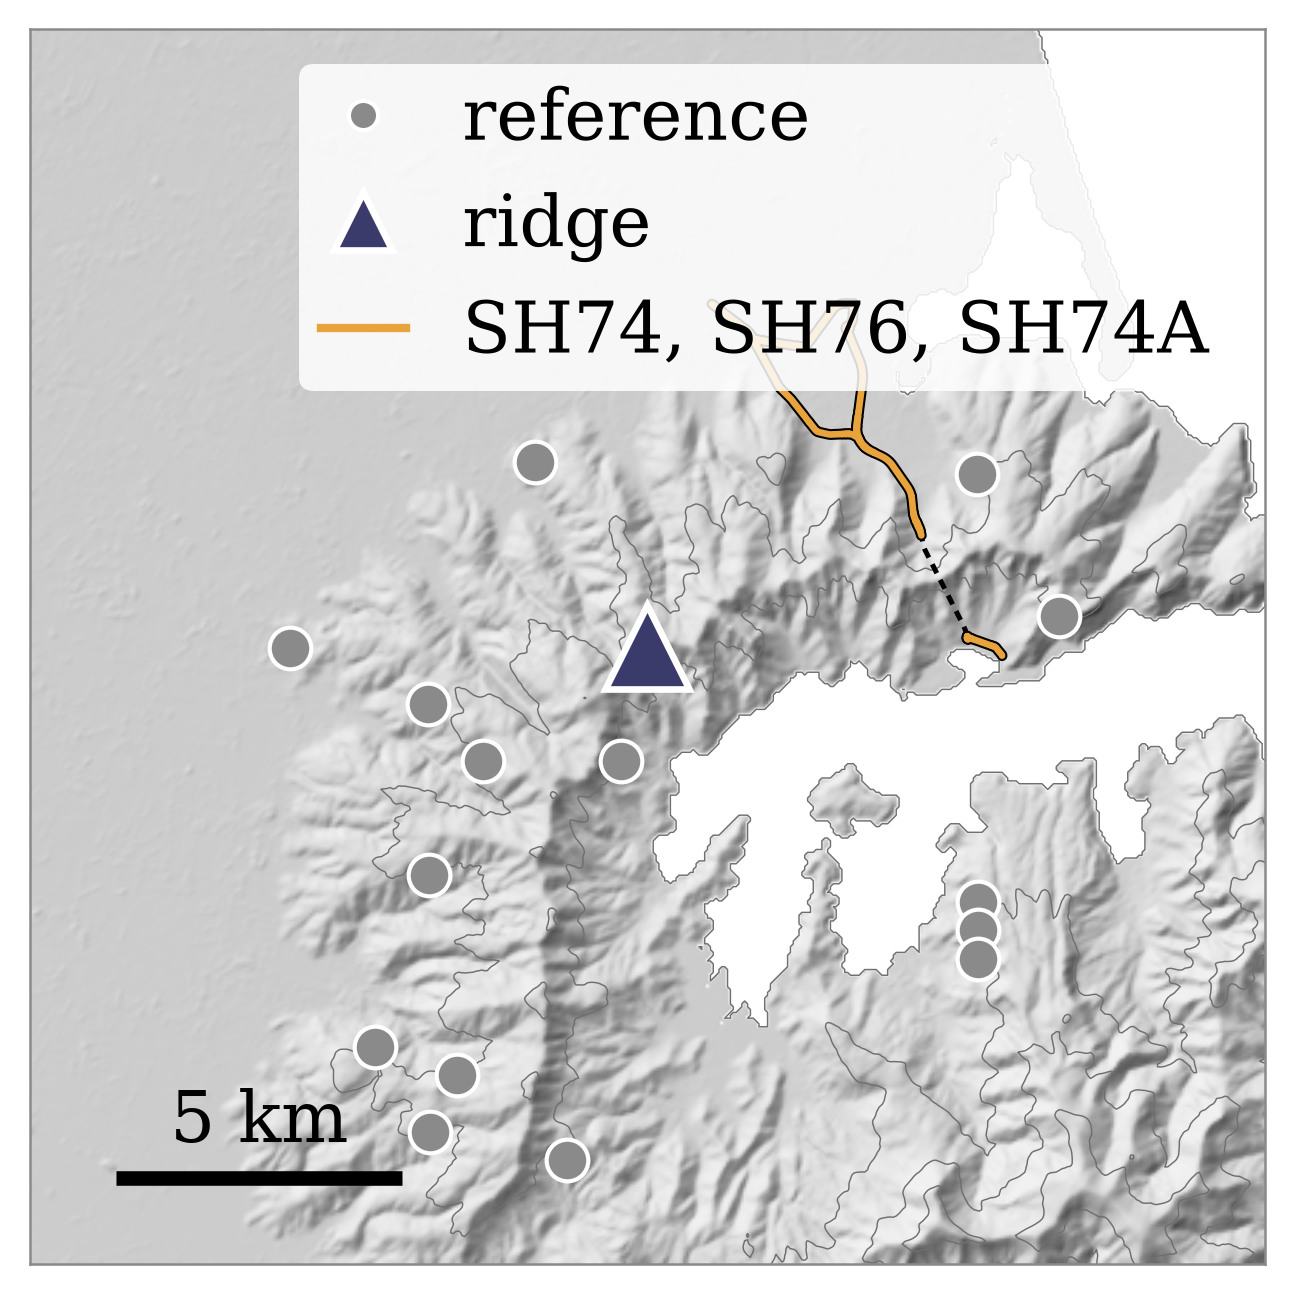
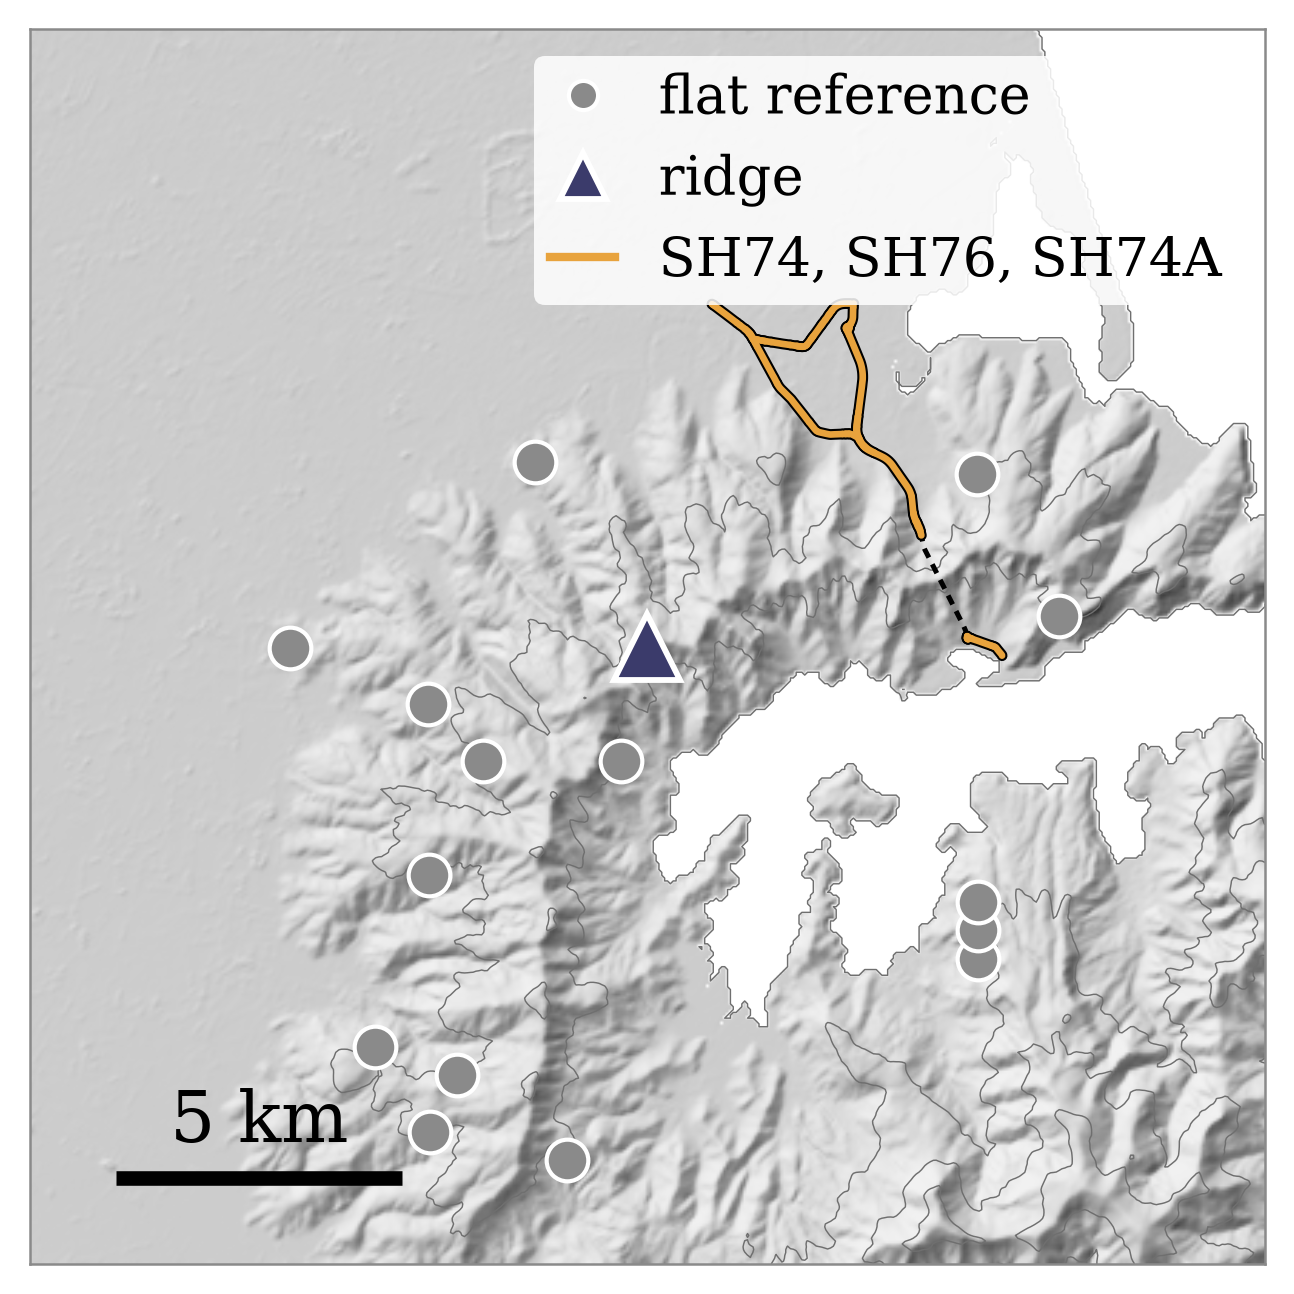
Score the Otira ridge and viaduct against flat references
The viaduct site is flat at 1.25 km but sits in a 173 m depression at 5 km,
so ridge/viaduct (2.8x at 2 s) multiplied ridge amplification by the valley's
de-amplification. Both sites are now scored against stations flat at the
1.25, 2.5 and 5 km scales: the ridge is 1.5-2.2x across 1-3 s and the viaduct
about 0.5x at 2 s but 1.5x at 1 s.

The notes now scope the landslide argument to large, deep-seated failures,
since rockfall is a short-period problem the run does not resolve, quote the
ridge and viaduct elevations instead of H_1250, and say the absolute shaking
is small. Both ratio plots use a log axis labelled against flat references.

Changed region(s): [[0.2164, 0.0309, 0.9583, 0.3091], [0.4637, 0.4637, 0.5255, 0.5564], [0.7419, 0.6801, 0.7728, 0.7419]]

diff --git a/cybershake-nshm/scripts/plot_marlborough_topo.py b/cybershake-nshm/scripts/plot_marlborough_topo.py
@@ -6,30 +6,36 @@
 
 The paired-site experiment from the topographic-effects paper
 (~/papers/moderate_crustal_topographic_effects, scripts/fig_paired_sites.py):
-take the ratio of pSA (RotD50) at a ridge site to that at a nearby reference
-site, as a field study would, and read it as topographic amplification. The
-Otira pair is the paper's own, chosen there from the dense array with: outside
-the supergrid, <= 5 km apart, |dVs30| <= 150 m/s, reference |H_1250| <= 10 m,
-ridge H_1250 >= 40 m. Both sites exist in this run and neither sits in the
-supergrid, so nothing is reselected.
+take the ratio of pSA (RotD50) at a ridge site to that at nearby reference
+sites, as a field study would, and read it as topographic amplification.
 
-Sugarloaf has no single reference. Its target is the run station nearest the
-Kordia tower on the Port Hills summit, and its references are every station
-that is flat at three scales (|H_1250| <= 10 m, |H_2500| <= 20 m,
-|H_5000| <= 30 m), within 10 km, outside the supergrid and within 200 m/s in
-Vs30. A reference flat at 1250 m alone can sit in a valley or on the massif at
-the 2.5-5 km scale that 2-5 s waves see; the Vs30 window is what keeps the
-Christchurch basin out. The ratio is drawn as the geometric mean over the
-references, with their 16th-84th percentile as a band. A single-event
-flat-site-against-flat-site version of the same ratio spreads 0.74-1.29
-(P10-P90) at 2 s, so one pair inside that range says nothing.
+The references are every station that is flat at three scales
+(|H_1250| <= 10 m, |H_2500| <= 20 m, |H_5000| <= 30 m), outside the supergrid,
+within a radius and a Vs30 window of the target. A reference flat at 1250 m
+alone can sit in a valley or on a massif at the 2.5-5 km scale that 2-5 s
+waves see. The paper's Otira reference, fKtnOWL at the viaduct, is that case:
+H_1250 is about 1 m but H_5000 is -173 m, so ridge/viaduct (2.8 at 2 s)
+multiplies ridge amplification by the valley's de-amplification. Here the
+Otira ridge (the paper's fKtoMWL) and the viaduct are each scored against flat
+references instead, so the two curves are the topographic effect on the slopes
+above the road and at the structure. Only one station qualifies within 8 km of
+Otira, so its radius is 12 km, which gives three.
+
+Sugarloaf's target is the run station nearest the Kordia tower on the Port
+Hills summit, with references within 10 km and 200 m/s; the Vs30 window is
+what keeps the Christchurch basin out.
+
+Ratios are the geometric mean over the references, with their 16th-84th
+percentile as a band. A single-event flat-site-against-flat-site version of the
+same ratio spreads 0.74-1.29 (P10-P90) at 2 s, so one pair inside that range
+says nothing.
 
 What this figure CANNOT show, and the slide has to say: this event was run with
 explicit topography only. There is no squashed (NT) companion, so the paper's
 check -- the same ratio without topography, which measures how far the pair
 departs from "similar site conditions" -- is absent. Everything here is T.
 
-One event, so one curve per pair: no median, no interquartile band. The arm is
+One event, so the band is spread across references, not across events. The arm is
 `prefilter` (SW4 source prefilter on, the 26.7.1Hz defaults). The run is
 deterministic to ~1 Hz (bb flo = 1 Hz, SW4 prefilter corner 1.12 Hz), so only
 periods of 1 s and longer are drawn.
@@ -55,8 +61,6 @@ PAPER = Path("/home/jake/papers/moderate_crustal_topographic_effects")
 DEM50 = Path("/var/tmp/copernicus/nz_dem_50m.tif")  # Copernicus GLO-30 at 50 m, NZTM
 HIGHWAYS = PAPER / "data" / "raw" / "osm_state_highways" / "overpass.json"
 
-# (label, file slug, ridge, reference). The reference is a station name, or a
-# NeutralRefs rule that selects every qualifying station.
 D_HILL = 1250.0  # m, diameter of the H_d averaging disk (Tiwari et al. Hill model)
 
 
@@ -67,9 +71,11 @@ class NeutralRefs:
     max_h: tuple = ((1250.0, 10.0), (2500.0, 20.0), (5000.0, 30.0))  # (D, |H_D| limit), m
 
 
+# (label, file slug, ridge, reference rule, structure). The structure, where
+# there is one, is scored against its own flat references under the same rule.
 PAIRS = [
-    ("Otira Viaduct", "otira", "fKtoMWL", "fKtnOWL"),
-    ("Sugarloaf, Port Hills", "sugarloaf", "dwd0ICA", NeutralRefs(radius=10_000.0, dvs30=200.0)),
+    ("Otira Viaduct", "otira", "fKtoMWL", NeutralRefs(radius=12_000.0, dvs30=150.0), "fKtnOWL"),
+    ("Sugarloaf, Port Hills", "sugarloaf", "dwd0ICA", NeutralRefs(radius=10_000.0, dvs30=200.0), None),
 ]
 F_DET = 1.0  # Hz, LF/HF merge; shorter periods are the stochastic HF's, not drawn
 
@@ -177,7 +183,7 @@ def hillshade(ax, x0, x1, y0, y1) -> None:
                levels=np.arange(0, 4000, 250), colors="#6f6f6f", linewidths=0.35)
 
 
-def highways(ax) -> None:
+def highways(ax, loc: str = "upper right") -> None:
     """OSM state highways (paper extract); tunnels and shelters dashed."""
     if not HIGHWAYS.exists():
         print(f"no {HIGHWAYS}; skipping highways")
@@ -196,7 +202,7 @@ def highways(ax) -> None:
             refs.update(r.replace(" ", "") for r in w["tags"]["ref"].split(";") if r.startswith("SH"))
     if refs:
         ax.plot([], [], color=ROAD_COLOUR, lw=2, label=", ".join(sorted(refs, key=lambda r: (len(r), r))))
-        ax.legend(loc="upper right", fontsize=17, handlelength=1.2, markerscale=0.7, frameon=True, framealpha=0.85,
+        ax.legend(loc=loc, fontsize=13, handlelength=1.2, markerscale=0.7, frameon=True, framealpha=0.85,
                   borderpad=0.3, edgecolor="none")
 
 
@@ -221,59 +227,60 @@ def main() -> None:
     args = ap.parse_args()
 
     im_path = args.data / args.arm / "intensity_measures.h5"
-    refs = {slug: select_references(im_path, ridge, ref) if isinstance(ref, NeutralRefs) else [ref]
-            for _, slug, ridge, ref in PAIRS}
-    sites = sorted({s for _, slug, ridge, _ in PAIRS for s in (ridge, *refs[slug])})
+    targets = {(slug, t): rule for _, slug, ridge, rule, struct in PAIRS for t in (ridge, struct) if t}
+    refs = {k: select_references(im_path, k[1], rule) for k, rule in targets.items()}
+    for k, names in refs.items():
+        assert names, f"{k}: no reference satisfies the rule"
+    sites = sorted({s for (_, t), names in refs.items() for s in (t, *names)})
     ims = load_psa(im_path, sites)
     period = ims["period"]
     keep = (period >= 1 / F_DET) & (period <= 10)
     args.out_dir.mkdir(parents=True, exist_ok=True)
+    for name in sites:
+        s = ims[name]
+        assert s["supergrid_depth_gp"] == 0, f"{name} inside the supergrid"
+        s["x"], s["y"] = to_nztm(s["longitude"], s["latitude"])
+        s["h"], s["z"] = relative_elevation(s["x"], s["y"])
 
-    # The slide lays each pair out as photo + map over a wide ratio plot, so
-    # every panel is its own PNG and Typst does the composition. The ratio
-    # plots share a y range so the two pairs read against each other.
-    # ratios[slug] = (geometric mean, P16, P84) over the references; for a
-    # single reference all three are the one ratio.
+    # ratios[(slug, target)] = (geometric mean, P16, P84) over the references.
     ratios = {}
-    for label, slug, ridge, _ in PAIRS:
-        r, qs = ims[ridge], [ims[q] for q in refs[slug]]
-        assert qs, f"{label}: no reference satisfies the rule"
-        for s in (r, *qs):
-            assert s["supergrid_depth_gp"] == 0, "pair site inside the supergrid"
-            s["x"], s["y"] = to_nztm(s["longitude"], s["latitude"])
-            s["h"], s["z"] = relative_elevation(s["x"], s["y"])
+    for (slug, t), names in refs.items():
+        r, qs = ims[t], [ims[q] for q in names]
         dist = np.array([np.hypot(r["x"] - q["x"], r["y"] - q["y"]) for q in qs])
         ln = np.log(r["psa"]) - np.log([q["psa"] for q in qs])
-        ratios[slug] = tuple(np.exp(v) for v in (ln.mean(0), *np.percentile(ln, [16, 84], axis=0)))
-        print(f"{label}: ridge {ridge} ({r['latitude']:.4f}, {r['longitude']:.4f}) "
+        ratios[slug, t] = tuple(np.exp(v) for v in (ln.mean(0), *np.percentile(ln, [16, 84], axis=0)))
+        print(f"{slug}: {t} ({r['latitude']:.4f}, {r['longitude']:.4f}) "
               f"H1250 {r['h']:.1f} m, z {r['z']:.0f} m, Vs30 {r['vs30']:.0f}; Rrup {r['rrup']:.0f} km; "
               f"{len(qs)} reference(s), {dist.min() / 1e3:.2f}-{dist.max() / 1e3:.2f} km away")
-        for name, q in zip(refs[slug], qs):
+        for name, q in zip(names, qs):
             print(f"    ref {name} ({q['latitude']:.4f}, {q['longitude']:.4f}) H1250 {q['h']:.1f} m, "
                   f"z {q['z']:.0f} m, Vs30 {q['vs30']:.0f}")
-        for t in (1, 2, 3, 5, 7.5, 10):
-            k = int(np.argmin(np.abs(period - t)))
-            gm, lo, hi = (a[k] for a in ratios[slug])
-            print(f"    T = {period[k]:g} s: ridge/ref {gm:.3f} (P16-P84 {lo:.3f}-{hi:.3f})")
+        for T in (1, 2, 3, 5, 7.5, 10):
+            k = int(np.argmin(np.abs(period - T)))
+            gm, lo, hi = (a[k] for a in ratios[slug, t])
+            print(f"    T = {period[k]:g} s: {gm:.3f} (P16-P84 {lo:.3f}-{hi:.3f})")
 
-        # Map: centred on the pair, or on the target when the references
-        # surround it.
+    # The slide lays each pair out as photo + map over a wide ratio plot, so
+    # every panel is its own PNG and Typst does the composition.
+    for label, slug, ridge, _, struct in PAIRS:
+        r = ims[ridge]
+        qs = [ims[q] for q in sorted({q for (sl, _), names in refs.items() if sl == slug for q in names})]
+        # Map: centred on the target, wide enough for every reference.
         fig, axm = plt.subplots(figsize=(4.2, 4.2), constrained_layout=True)
-        if len(qs) == 1:
-            cx, cy = (r["x"] + qs[0]["x"]) / 2, (r["y"] + qs[0]["y"]) / 2
-            half = max(3500.0, 0.5 * dist[0] + 2500)
-        else:
-            cx, cy = r["x"], r["y"]
-            half = dist.max() + 1500
+        cx, cy = r["x"], r["y"]
+        half = max(np.hypot(q["x"] - cx, q["y"] - cy) for q in qs) + 1500
         hillshade(axm, cx - half, cx + half, cy - half, cy + half)
-        axm.plot([q["x"] for q in qs], [q["y"] for q in qs], "o", ms=17 if len(qs) == 1 else 10,
-                 mfc=REF_COLOUR, mec="white", mew=1.6 if len(qs) == 1 else 1.0, zorder=6, label="reference")
-        axm.plot(r["x"], r["y"], "^", ms=20, mfc=RIDGE_COLOUR, mec="white", mew=1.6, zorder=7,
-                 label="ridge")
+        axm.plot([q["x"] for q in qs], [q["y"] for q in qs], "o", ms=10, mfc=REF_COLOUR, mec="white", mew=1.0,
+                 zorder=6, label="flat reference")
+        axm.plot(r["x"], r["y"], "^", ms=16, mfc=RIDGE_COLOUR, mec="white", mew=1.4, zorder=7, label="ridge")
+        if struct:
+            v = ims[struct]
+            axm.plot(v["x"], v["y"], "s", ms=11, mfc=ROAD_COLOUR, mec="black", mew=1.2, zorder=7, label="viaduct")
         axm.set_xlim(cx - half, cx + half)
         axm.set_ylim(cy - half, cy + half)
         axm.set_aspect("equal")
-        highways(axm)
+        # Otira's references sit north of the pair, so its legend goes low.
+        highways(axm, loc="lower right" if struct else "upper right")
         axm.set_xticks([])
         axm.set_yticks([])
         for sp in axm.spines.values():
@@ -288,29 +295,37 @@ def main() -> None:
         plt.close(fig)
         print(f"wrote {out}")
 
-    hi = max(ratios[slug][2][keep].max() for slug in ratios) * 1.05
-    lo = min(0.9, min(ratios[slug][1][keep].min() for slug in ratios))
-    for label, slug, _, _ in PAIRS:
-        gm, p16, p84 = ratios[slug]
+    # The ratio plots share a y range so the two pairs read against each other.
+    hi = max(a[2][keep].max() for a in ratios.values()) * 1.05
+    lo = min(0.9, min(a[1][keep].min() for a in ratios.values()) * 0.95)
+    for label, slug, ridge, _, struct in PAIRS:
         fig, axr = plt.subplots(figsize=(6.4, 3.3), constrained_layout=True)
         axr.axhline(1, color="#8a8a8a", lw=1.0, zorder=1)
-        if len(refs[slug]) > 1:
-            axr.fill_between(period[keep], p16[keep], p84[keep], color=RIDGE_COLOUR, alpha=0.18, lw=0, zorder=2)
-        axr.plot(period[keep], gm[keep], "-", color=T_COLOUR, lw=2.8, zorder=3)
+        curves = [(ridge, "ridge", T_COLOUR, RIDGE_COLOUR, "-")]
+        if struct:
+            curves.append((struct, "viaduct", ROAD_COLOUR, ROAD_COLOUR, "--"))
+        for t, name, colour, band, ls in curves:
+            gm, p16, p84 = ratios[slug, t]
+            axr.fill_between(period[keep], p16[keep], p84[keep], color=band, alpha=0.18, lw=0, zorder=2)
+            axr.plot(period[keep], gm[keep], ls, color=colour, lw=2.8, zorder=3, label=name)
+        if struct:
+            axr.legend(loc="upper right", fontsize=14, handlelength=2.2)
         axr.set_xscale("log")
         ticks = [1, 2, 3, 5, 10]
         axr.set_xticks(ticks, [f"{t:g}" for t in ticks])
-        axr.minorticks_off()
         axr.set_xlim(0.95, 10.5)
+        axr.set_yscale("log")
+        axr.minorticks_off()
+        yt = [v for v in (0.5, 0.75, 1, 1.5, 2, 3) if lo <= v <= hi]
+        axr.set_yticks(yt, [f"{v:g}" for v in yt])
         axr.set_ylim(lo, hi)
-        axr.set_ylabel("pSA ridge / reference", fontsize=15)
+        axr.set_ylabel("pSA / flat references", fontsize=15)
         axr.set_xlabel("Period, $T$ (s)", fontsize=15)
         axr.tick_params(labelsize=14)
         out = args.out_dir / f"marlborough-topo-{slug}-ratio.png"
         fig.savefig(out, dpi=args.dpi)
         plt.close(fig)
         print(f"wrote {out}")
-
 
 if __name__ == "__main__":
     main()
